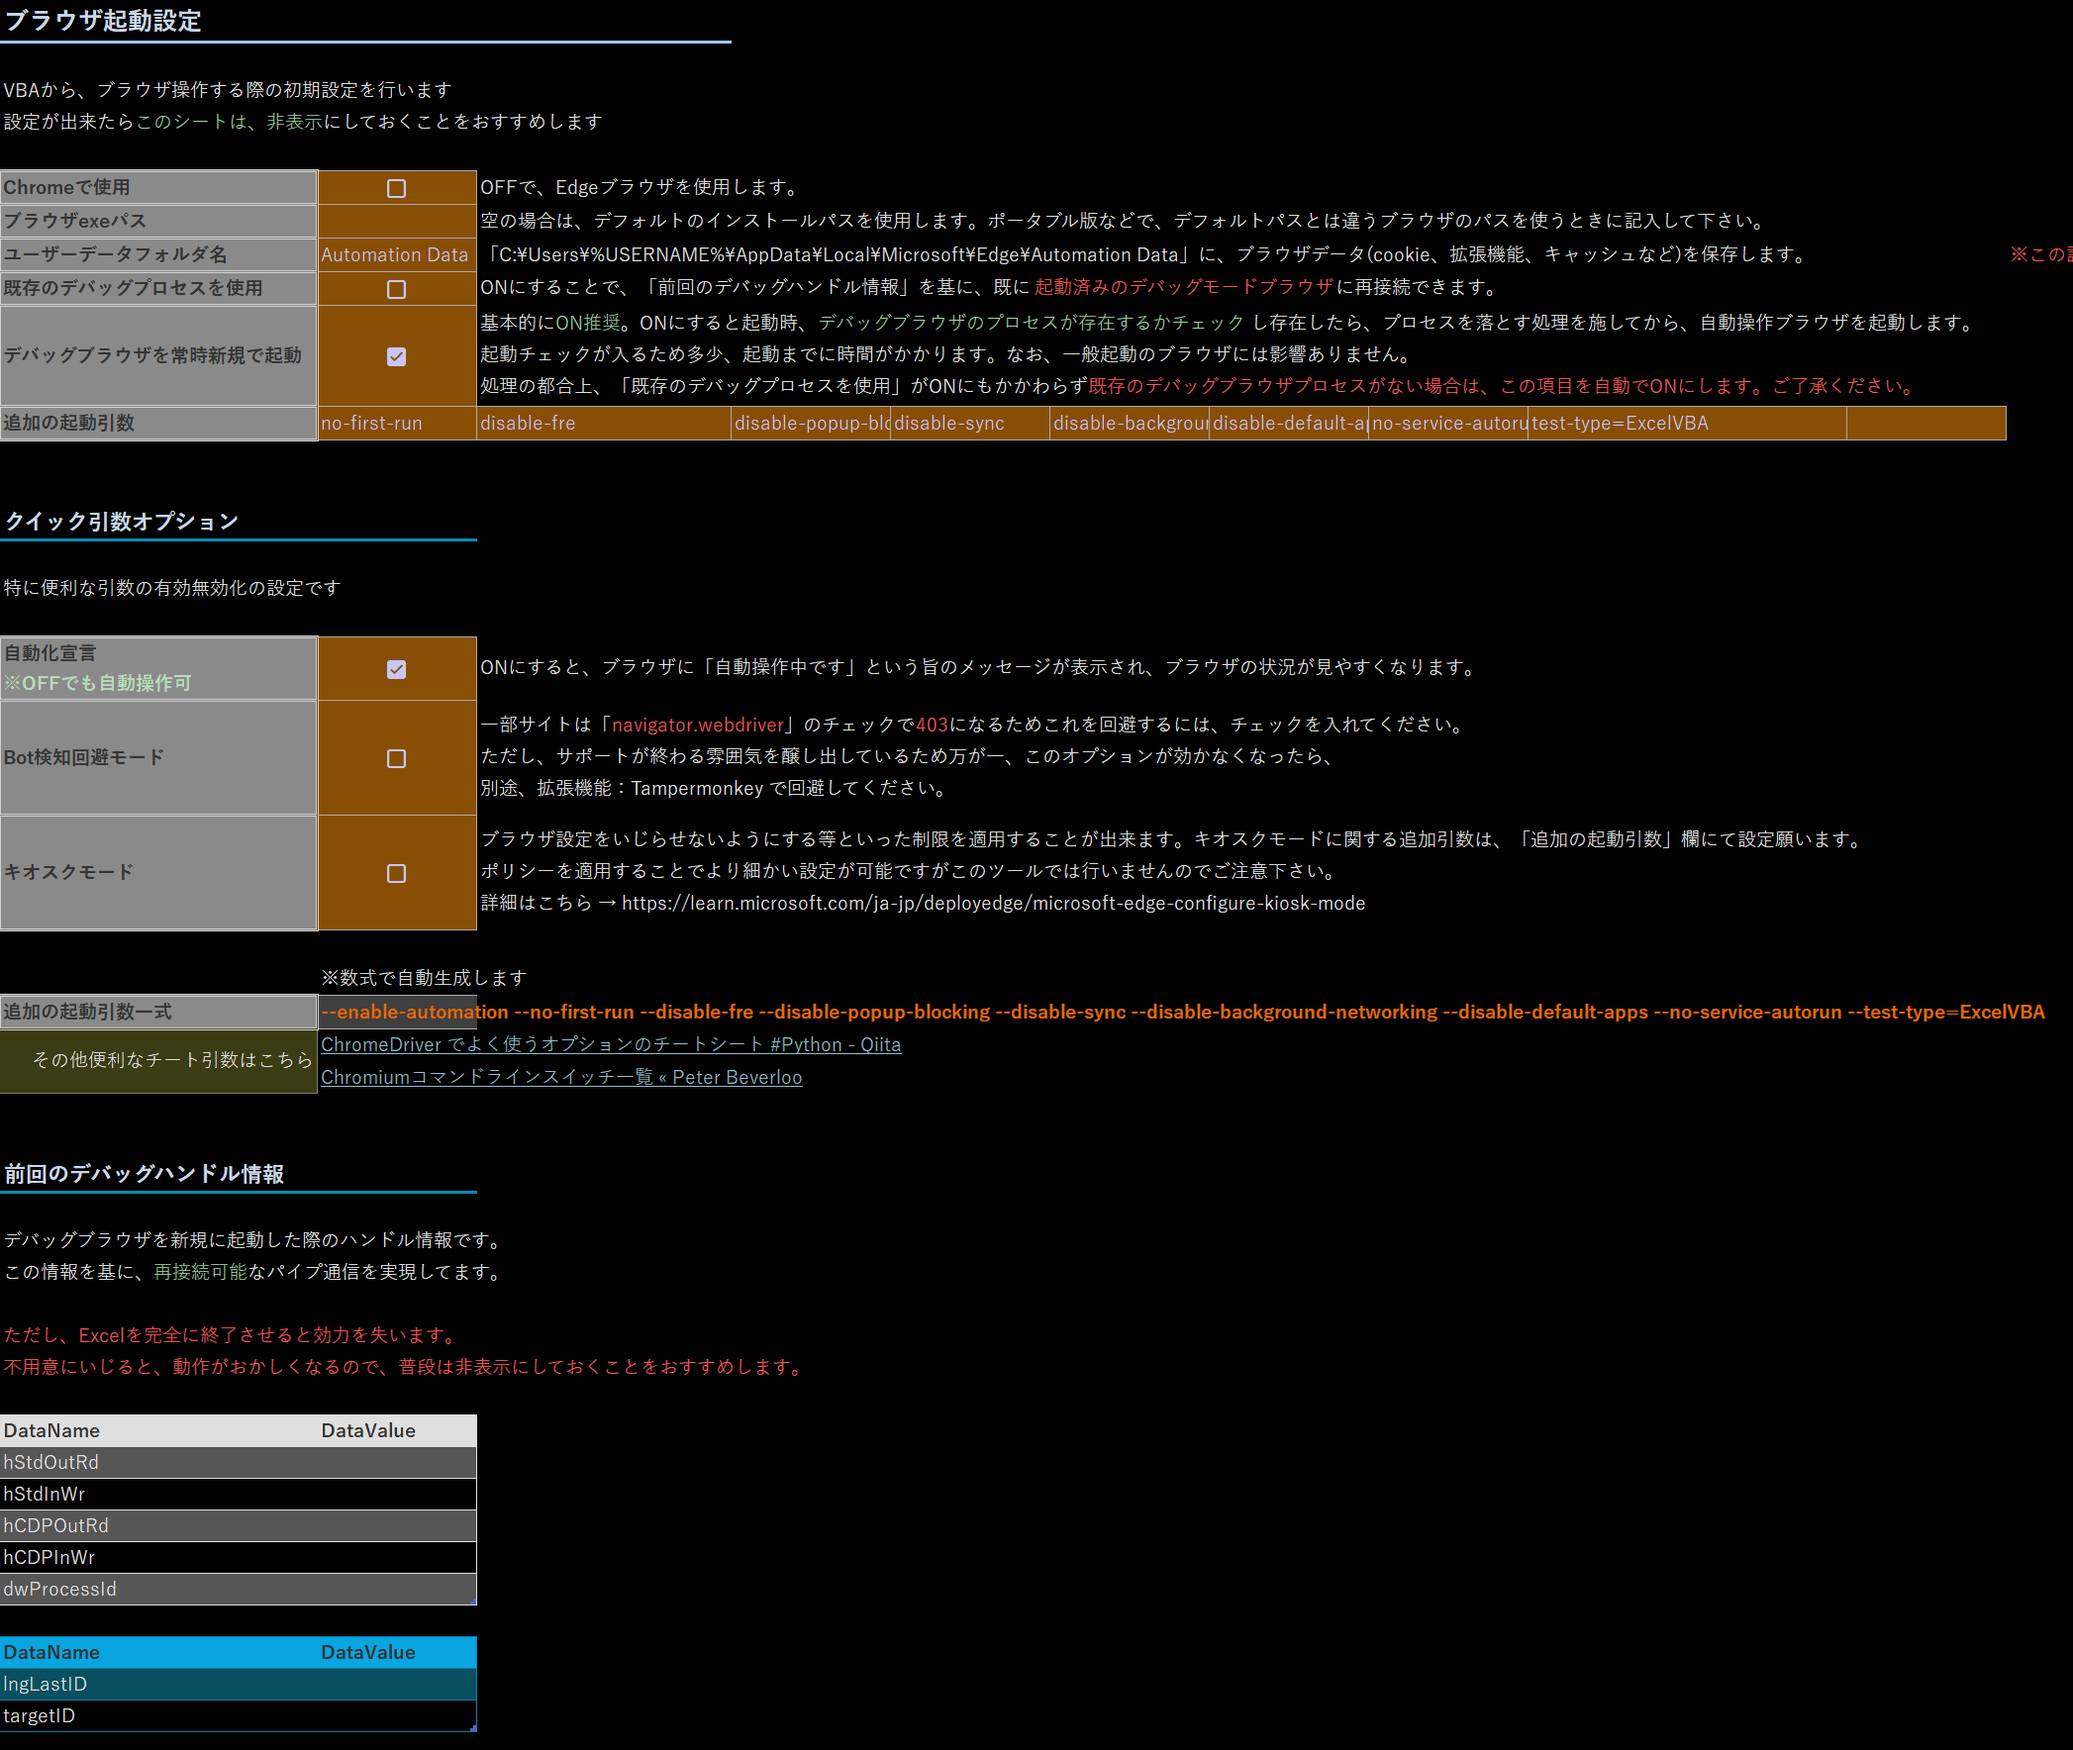
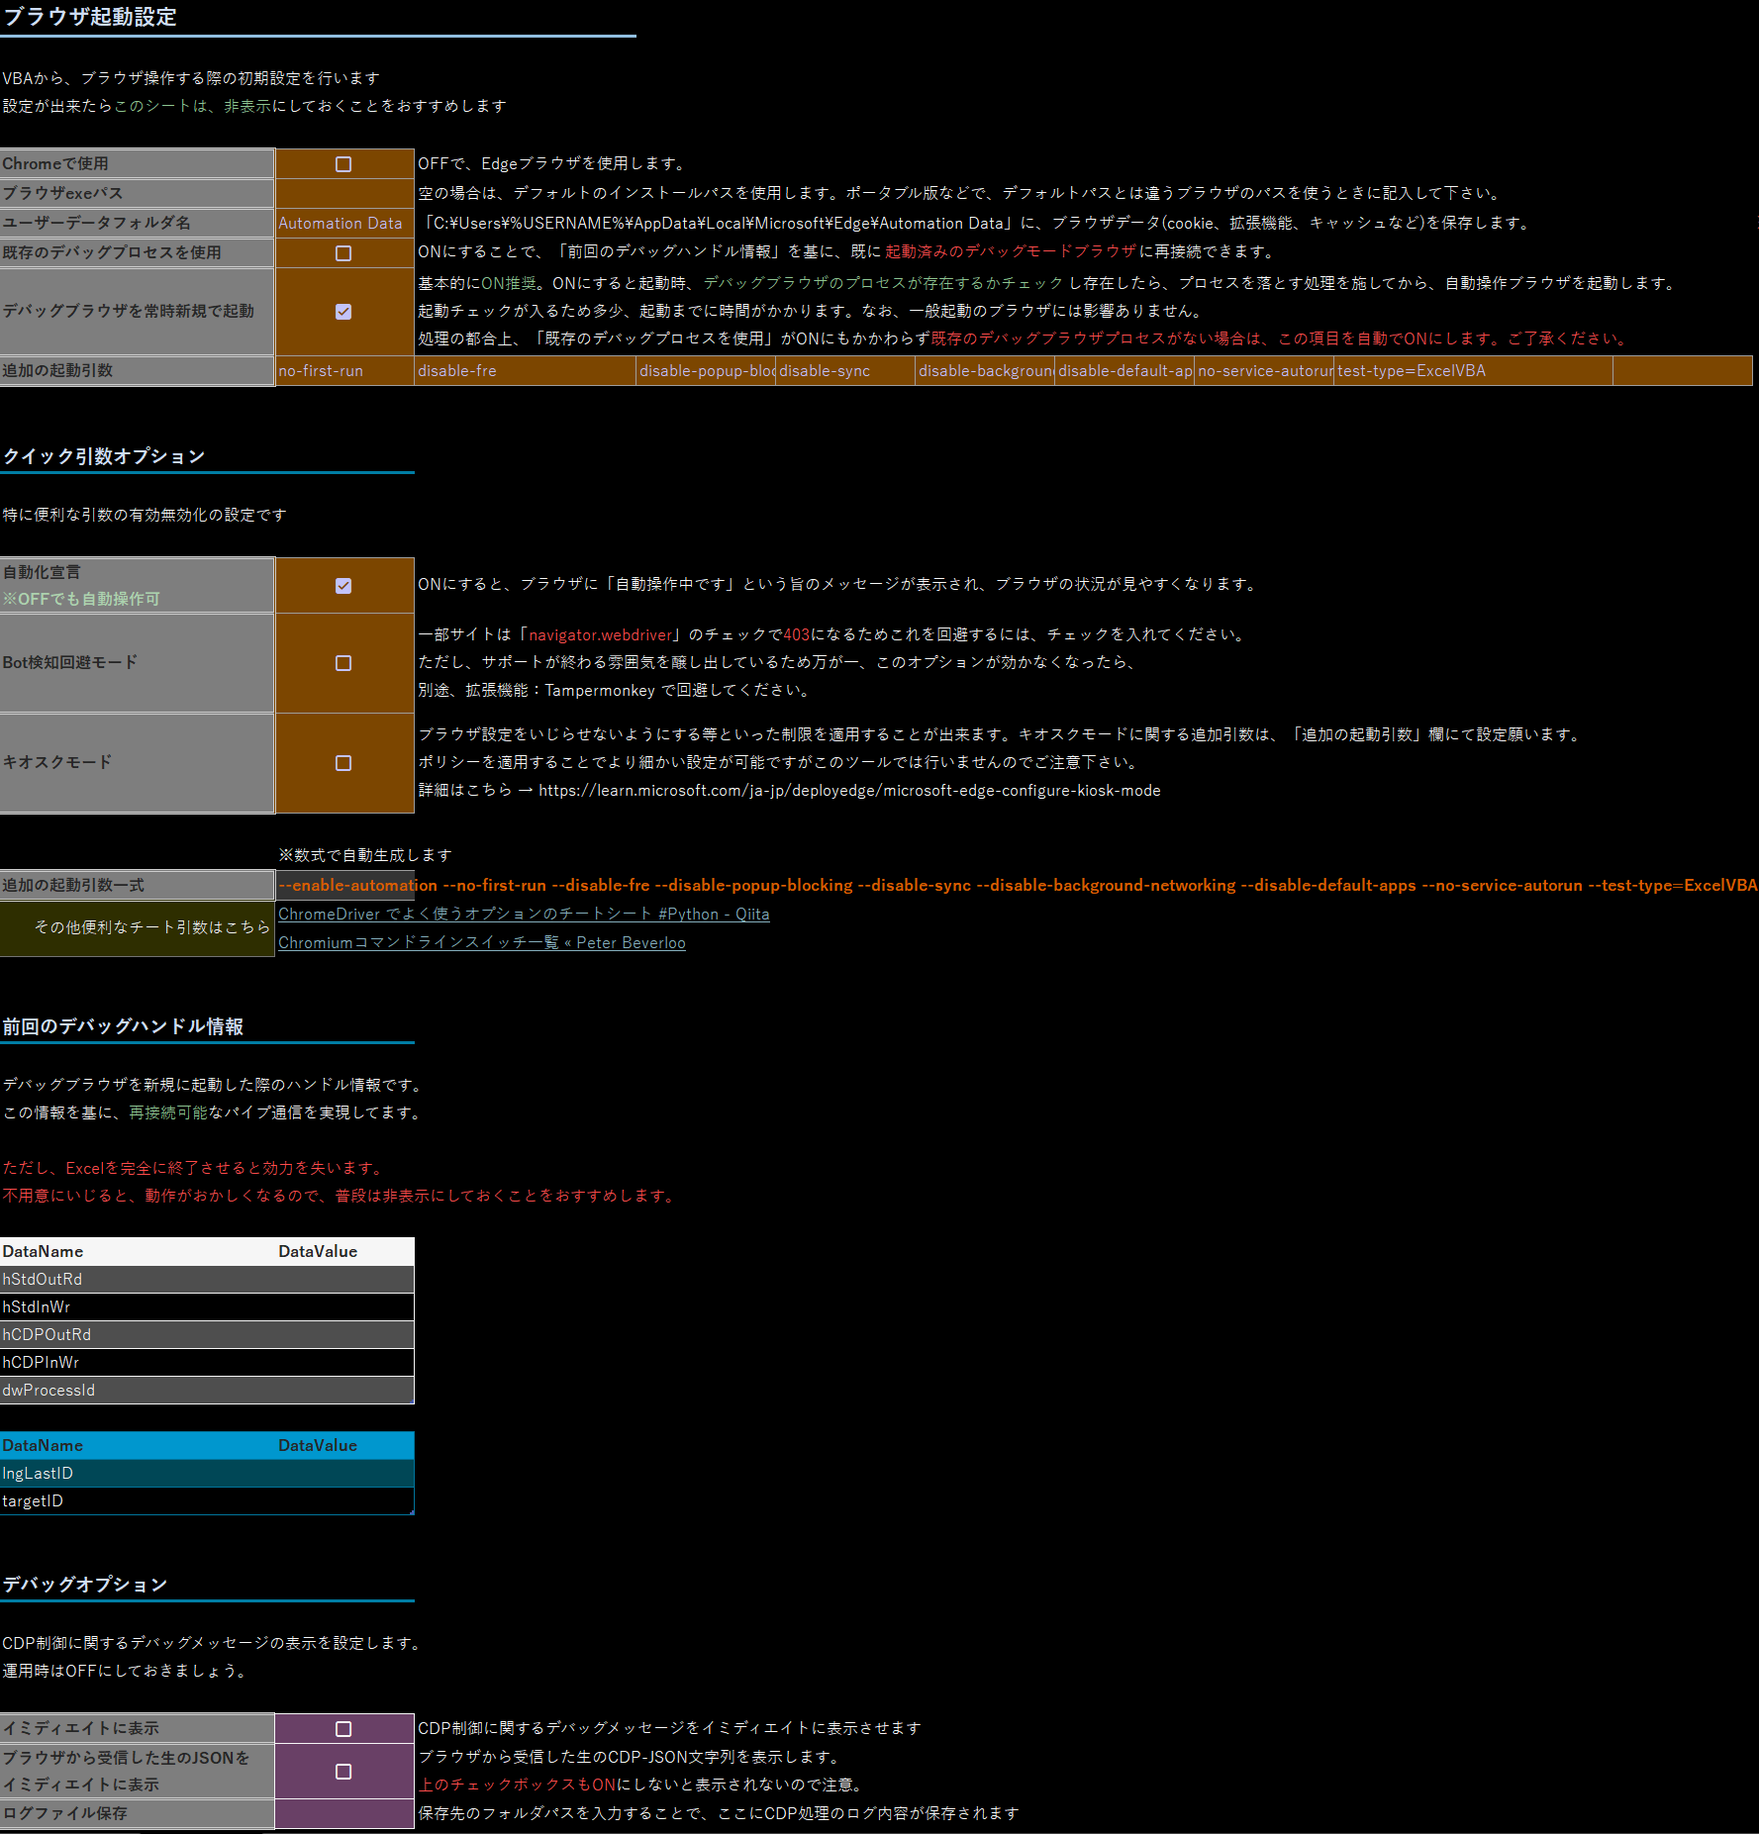
このツール独自の改良点、追加点を記述

diff --git a/README.md b/README.md
@@ -96,7 +96,68 @@ Excelは、ファイルを開く時に、まず、この「刻印」があるか
 
 ---
 
-## シート：ブラウザ起動設定について
+## このツール独自の、追加・改良点
+
+このツールは、偉大なオリジナル（本家）への、最大限の敬意から生まれました。
+しかし、我々は、 **日本の、VBAの"現場"** で、日々、戦う、あなたのために、歩みを止めるわけには、いきませんでした。
+
+**「もっと、簡単に」**  
+**「もっと、安定して」**  
+**「もっと、"VBAらしく"」**
+
+―――これは、そんな、 **声なき"声"** に応えるための、我々の **「答え」** です。
+
+---
+
+### 🌟 **Chromium-Automation: "Excel"こそが、あなたの司令塔**
+
+もう、VBAのコードと、にらめっこする必要はありません。
+**あなたの"戦場"は、常に、使い慣れた「Excelシート」の上**にあります。
+
+* **【脱・ハードコーディング】起動設定は、"シート"の上で：**
+    起動引数とかどうしよう...😣  
+    ―――すべて、**「ブラウザ起動設定」ワークシート**に、書き込むだけ。  
+    コードを一行も変えることなく、あなたのブラウザは、**千の顔**を持ちます。  
+
+* **【デバッグの"ON/OFF"も、シートの上で】：**  
+    ログのON/OFF、ログファイルのパス指定も、**もはや、あなたの指先一つ**。
+
+* **【さらば、tmpフォルダ】：**  
+    セッション情報などの、**デバッグの"痕跡"**は、もう、PCの片隅に散らばりません。  
+    すべては、**ワークシート上の「テーブル」に、美しく、記録**されます。
+
+* **【ポータブルブラウザ、完全対応】：**  
+    PCにインストールされたブラウザだけが、友達じゃない。  
+    **USBメモリの中**にいる、あなただけの **"相棒"（ポータブル版ブラウザ）** も、これからは、共に戦えます。
+
+* **【"魂の声"を聴け】：**  
+    新設された **`BrowserEvents`プロパティ**が、ブラウザの**非同期イベント** を、あなたの手の中に。詳細は、別記のデモをご覧ください。
+
+---
+
+### 🌐 **VBA-Web: "文字化け"よ、永遠に、さようなら**
+
+あの、悪夢のようなエラーメッセージ。  
+**「Unicode 文字のマッピングがターゲットのマルチバイトコードページにありません」**  
+―――我々は、その **"絶望"** を、完全に、葬り去りました。  
+現代のWeb（UTF-8）と、古のVBAの間にあった、悲しい「壁」は、もう、ありません。
+
+---
+
+### 🔌 **WebSocket: "どんな相手"とも、対話せよ**
+
+* **接続先の、完全な"自由"** を手に入れました。URLも、ポートも、セキュア設定も、あなたの意のまま。
+* 取得した**WebSocketハンドル**を、外部で保持し、再利用する、という **プロの"芸当"** も、可能に。
+* そして、もちろん。**日本語の送受信**も、完璧です。
+
+---
+
+これは、単なるフォーク（分岐）では、ありません。  
+これは、**VBAという"現場"を、誰よりも深く愛する者**たちが、作り上げた、 **"進化（Evolution）"** です。
+
+---
+
+## ワークシート：ブラウザ起動設定について
 
 ![ワークシート：ブラウザ起動設定](doc/説明1.png)
 
